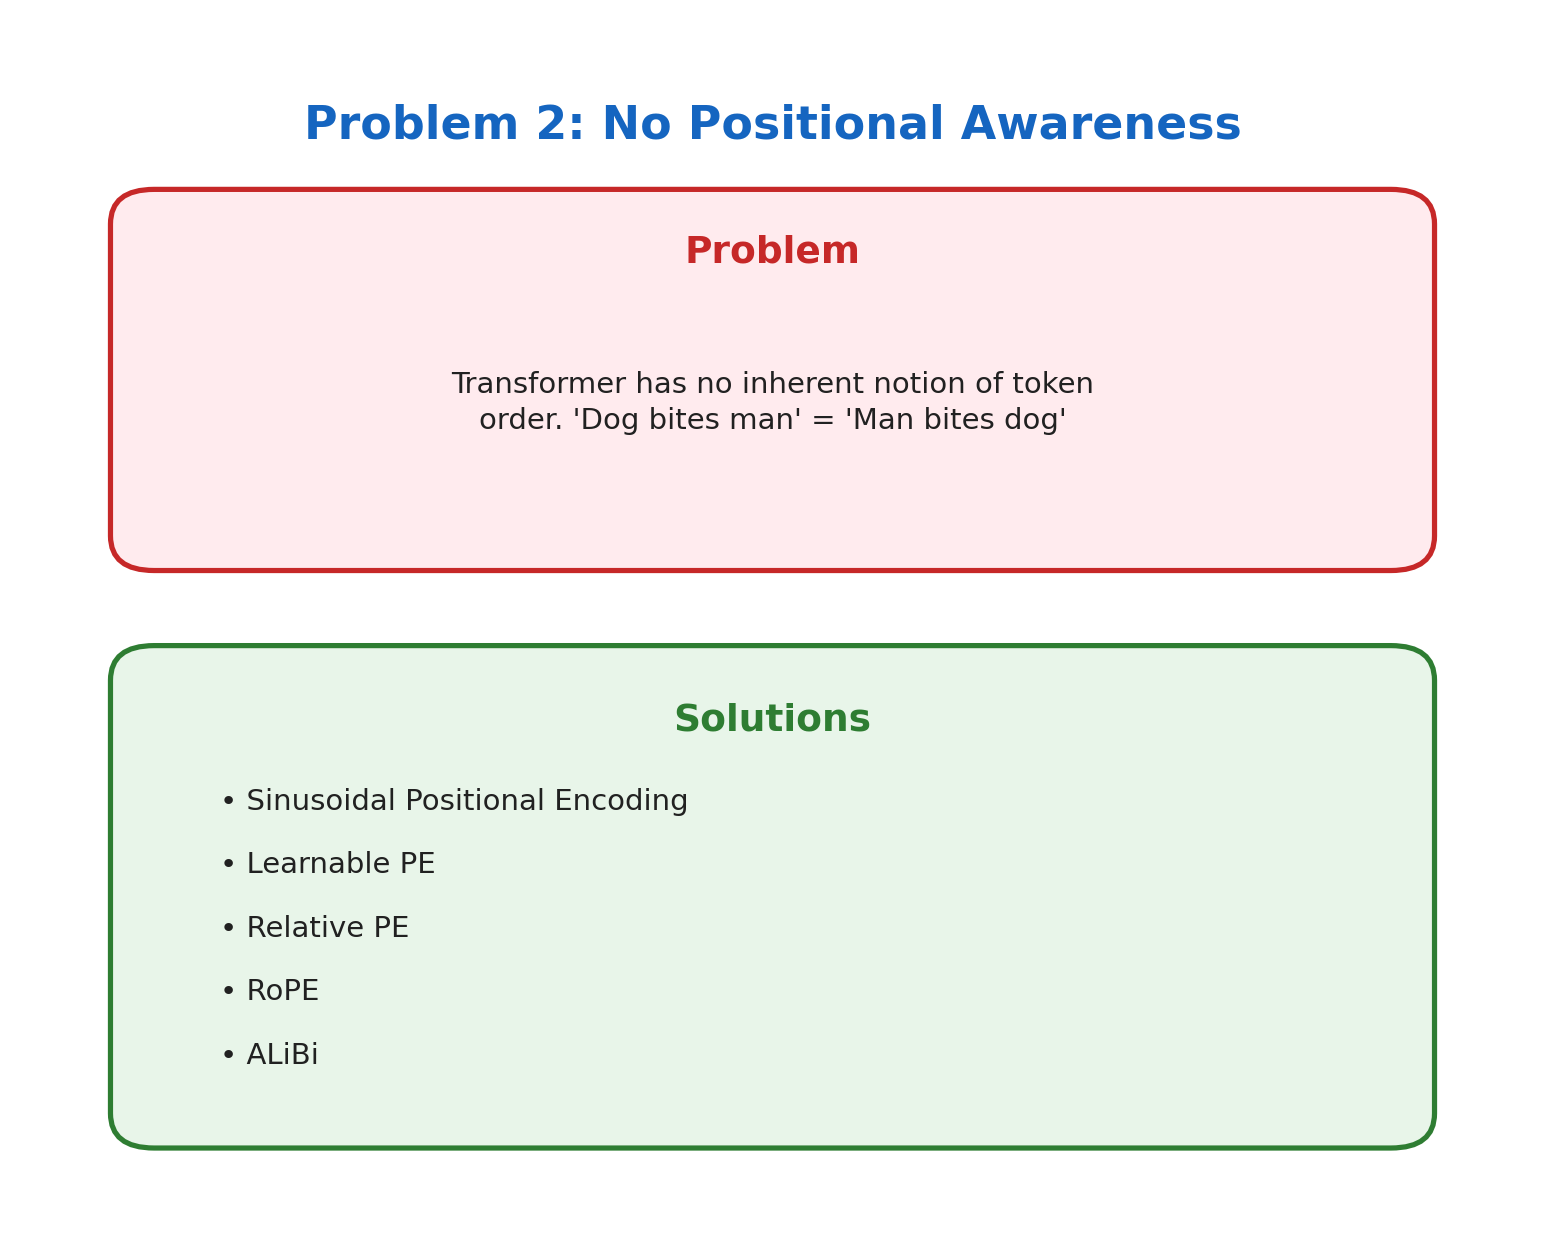
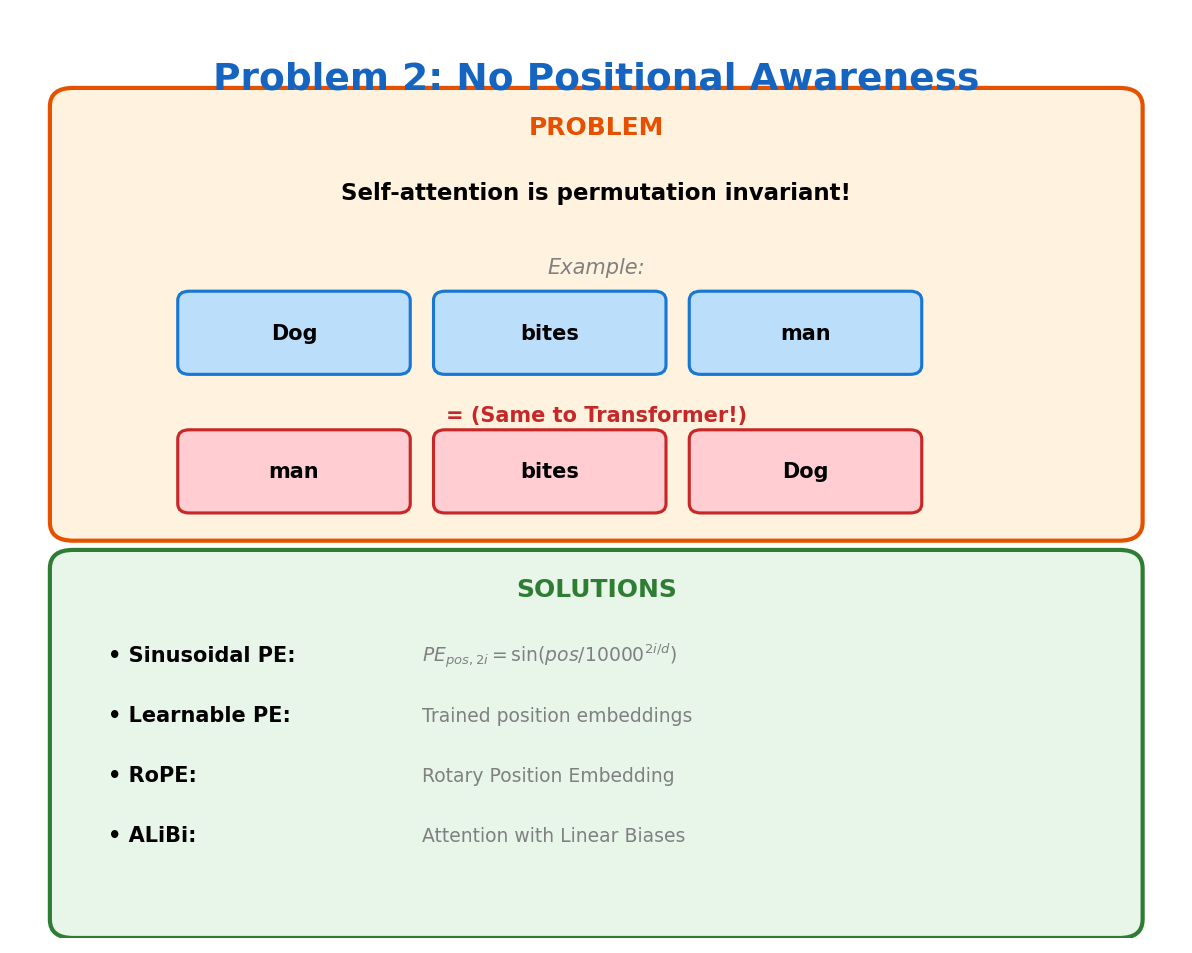
Update Problem 02: Positional Awareness - human-readable README

diff --git a/02_positional_awareness/README.md b/02_positional_awareness/README.md
@@ -1,24 +1,52 @@
 # Problem 2: No Positional Awareness
 
-## Problem
+[← Back to Main](../README.md) | [← Previous](../01_quadratic_complexity/README.md) | [Next →](../03_fixed_context/README.md)
 
-Transformer has no inherent notion of token order. 'Dog bites man' = 'Man bites dog'.
+---
 
-Unlike RNNs which process sequences step-by-step, the self-attention mechanism is permutation-invariant. Without explicit positional information, the model cannot distinguish between different orderings of the same tokens.
+![Problem 2](./problem.png)
 
-## Solutions
+## What's the Problem?
 
-| Solution | Description |
-|----------|-------------|
-| **Sinusoidal Positional Encoding** | Fixed encodings using sine/cosine functions at different frequencies |
-| **Learnable PE** | Position embeddings learned during training |
-| **Relative PE** | Encodes relative distances between tokens rather than absolute positions |
-| **RoPE** | Rotary Position Embedding - encodes position through rotation matrices |
-| **ALiBi** | Attention with Linear Biases - adds linear bias based on distance |
+Try this: shuffle the words in "The dog bit the man" to get "man the bit dog The". To a vanilla transformer, these are literally the same thing. It has no idea which word came first.
 
-## References
+Why? Because self-attention is **permutation invariant**. It just looks at the content of each token and how they relate to each other — position doesn't factor in at all.
 
-- [Attention Is All You Need](https://arxiv.org/abs/1706.03762) - Sinusoidal PE
-- [RoFormer](https://arxiv.org/abs/2104.09864) - Rotary Position Embedding
-- [ALiBi](https://arxiv.org/abs/2108.12409) - Train Short, Test Long
+This is actually by design (parallelization!), but it means we need to explicitly tell the model about order.
 
+## Why Does This Happen?
+
+Unlike RNNs that process words one-by-one (so position is implicit), transformers see all tokens simultaneously. The attention mechanism computes:
+
+```
+attention_score = query · key
+```
+
+Nothing in this equation cares about *where* the query or key came from in the sequence.
+
+## How Do We Fix It?
+
+We inject position information directly into the embeddings:
+
+| Method | How It Works |
+|--------|--------------|
+| **Sinusoidal PE** | Add sin/cos waves at different frequencies — position 1 gets one pattern, position 2 gets another |
+| **Learned PE** | Let the model learn a vector for each position during training |
+| **Relative PE** | Instead of absolute positions, encode *distances* between tokens |
+| **RoPE** | Rotate embedding vectors based on position — mathematically elegant |
+| **ALiBi** | Add a bias to attention scores based on distance — no extra parameters! |
+
+## The Trade-offs
+
+- **Sinusoidal**: Works okay, but doesn't generalize well to longer sequences
+- **Learned**: Great for fixed lengths, but what about position 10001 if you only trained up to 10000?
+- **RoPE/ALiBi**: These actually extrapolate reasonably well to unseen lengths
+
+## Learn More
+
+- [RoFormer Paper](https://arxiv.org/abs/2104.09864) — Where RoPE comes from
+- [ALiBi Paper](https://arxiv.org/abs/2108.12409) — Train short, test long
+
+---
+
+[← Back to Main](../README.md) | [← Previous](../01_quadratic_complexity/README.md) | [Next →](../03_fixed_context/README.md)
